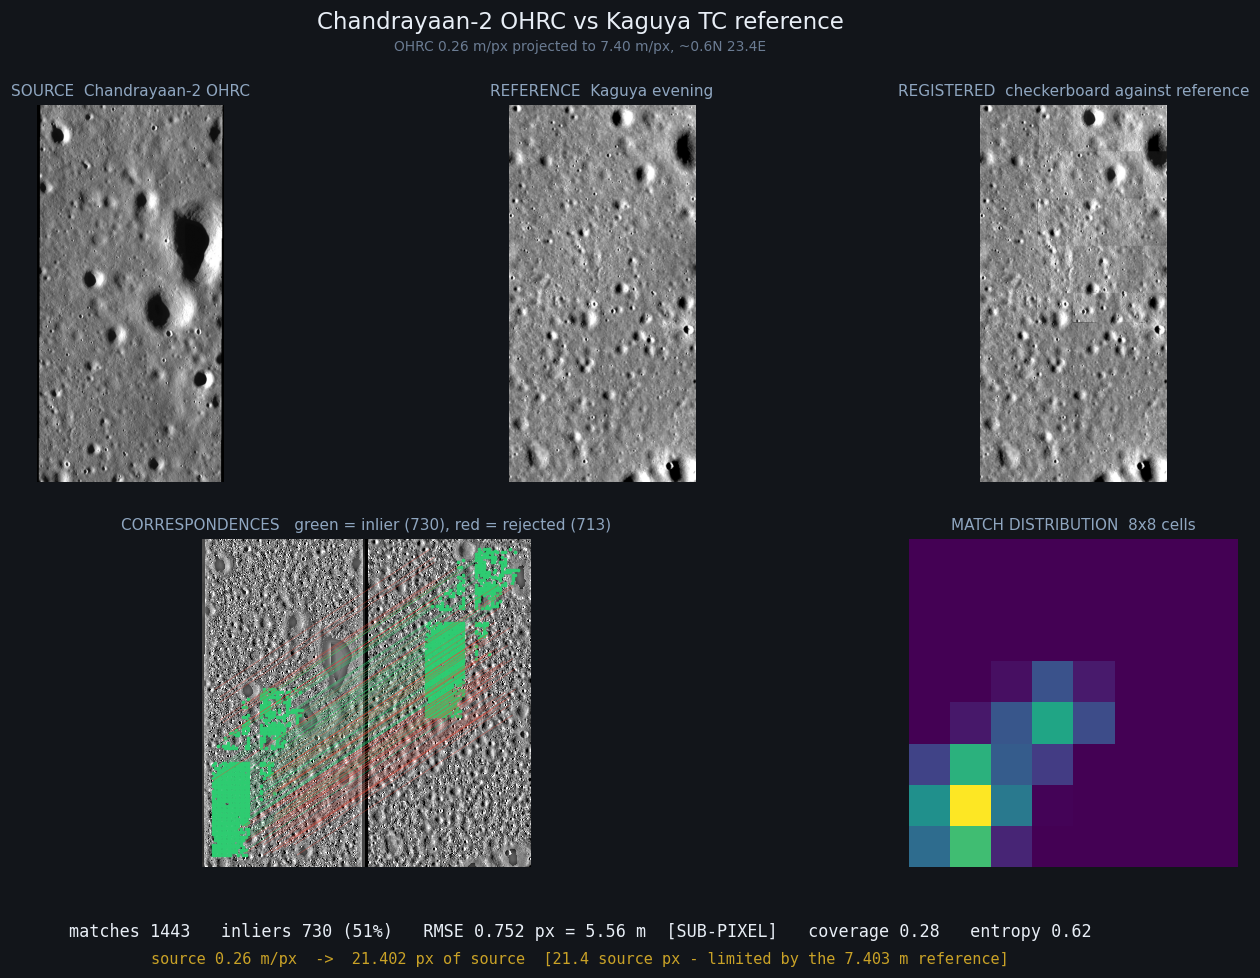
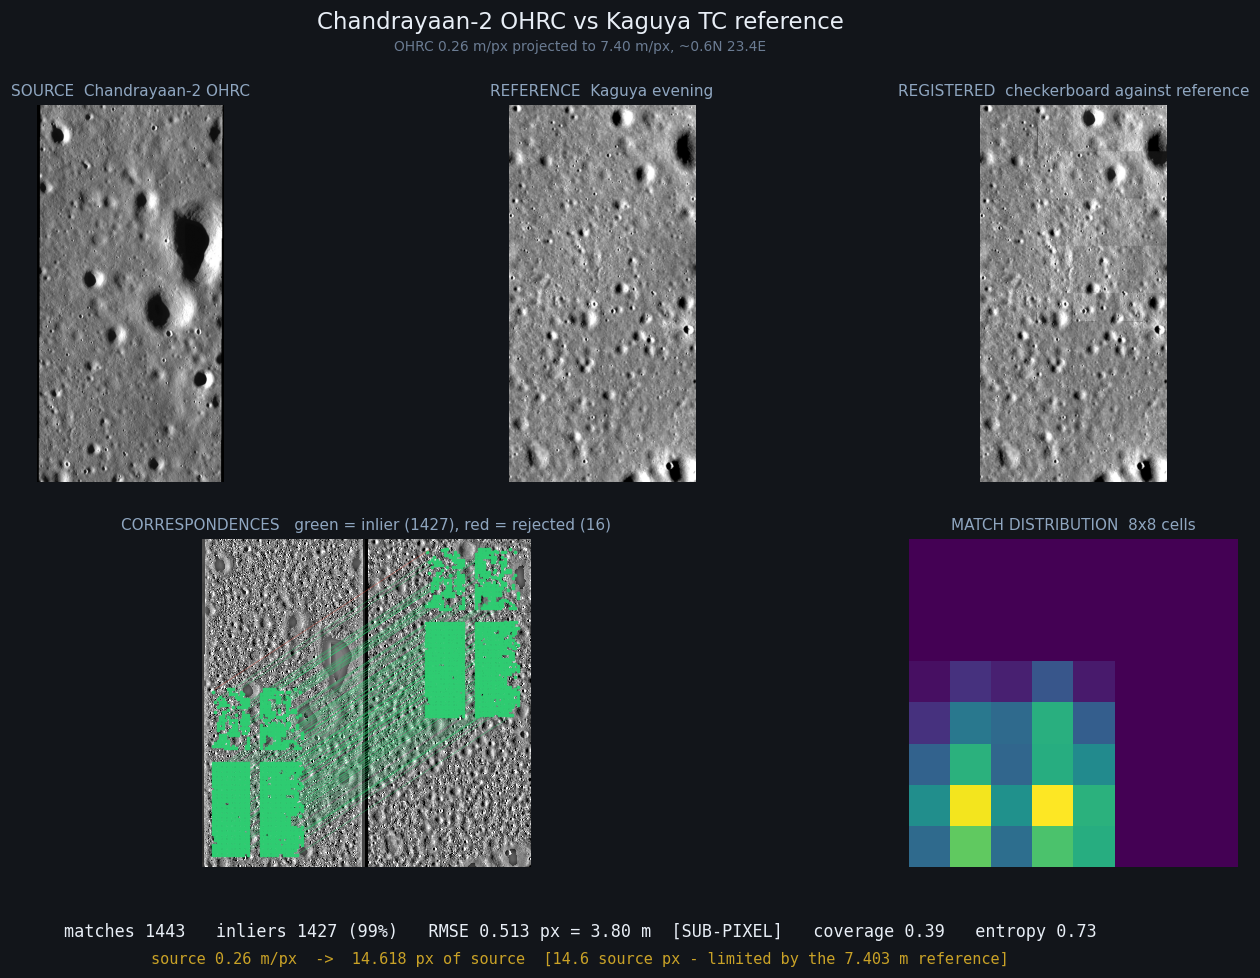
Close the two open bugs: the demo's verdict, and a median over a quantised backplane
BUG-027. `demo.py` called `scripts/register.py`, which hardcodes a 4-DOF
similarity fit, while every reported figure came through the package, which
selects the transform on held-out residual. On TMC-2 that difference decided
the problem statement's headline clause rather than merely nudging a value:
identical 3085 matches, but 1.031 source px and NOT sub-pixel from the demo
against 0.872 and sub-pixel from the package. The one command the README tells
a reviewer to run printed the failing number while the README printed the
passing one.

It now calls `sandhi.pipeline.register()` and `pipeline.warp()` and takes its
metric block from the package instead of recomputing one. All three figures
regenerated on full data. `outputs/demo_tmc.json` and
`outputs/tmc2_metrics.json` now agree to the last decimal across all nine
compared fields.

Two traps were avoidable only by looking for them. The loaders already resample
to the common grid, so `run()` passes `gsd_m` and `source_native_gsd` but never
`src_gsd`/`ref_gsd` -- that would resample a second time. And omitting
`source_native_gsd` would have scored OHRC's 0.26 m product against the 7.403 m
grid it was projected onto, flipping a stated limit into a false SUB-PIXEL pass
and deleting the caveat the demo exists to show. OHRC still reports 14.618
source px, not sub-pixel.

BUG-028. `ground_gsd()` took a median of adjacent-centre distances. IIRS's LOC
backplane stores duplicated coordinates -- 16.06% of adjacent sample pairs are
[…]

diff --git a/scripts/demo.py b/scripts/demo.py
@@ -20,12 +20,9 @@ import cv2  # noqa: E402
 import matplotlib.pyplot as plt  # noqa: E402
 import numpy as np  # noqa: E402
 
-from register import (  # noqa: E402
-    BUCKET_GRID,
-    fit,
-    register_pair,
-    uniformity,
-)
+from sandhi import pipeline  # noqa: E402
+
+from register import BUCKET_GRID  # noqa: E402
 from remeasure import build_raw_hp  # noqa: E402
 
 ROOT = Path(__file__).resolve().parent.parent
@@ -174,10 +171,13 @@ def load_tmc(lat=0.5, size=1536):
     Chandrayaan-2 data at survey scale rather than on a single targeted strip.
 
     Like OHRC, the source arrives resampled: TMC-2 is 5.05 m/px and Kaguya
-    7.403 m/px, so the source is brought to the reference GSD here rather than
-    inside the demo, because `register_pair` takes no GSD arguments. The ratio
-    is read from the products (1.466), never estimated -- see BUG-010, and
-    BUG-020 for why the non-integer ratio needed a real resampler.
+    7.403 m/px, so the source is brought to the reference GSD here, in the
+    loader that knows both products' GSDs, rather than inside `run()`. The
+    ratio is read from the products (1.466), never estimated -- see BUG-010,
+    and BUG-020 for why the non-integer ratio needed a real resampler.
+
+    `run()` therefore passes `gsd_m` and `source_native_gsd` to the package but
+    NOT `src_gsd`/`ref_gsd`, which would resample a second time.
     """
     import rasterio
     from sandhi.pipeline import resample
@@ -230,7 +230,22 @@ def run(case: str, out_path: Path):
     src, ref, gsd = data["src"], data["ref"], data["gsd"]
     print(f"{data['title']}\n  {data['sub']}\n  matching...")
 
-    result = register_pair(src, ref)
+    # Through the PACKAGE, not scripts/register.py. The two differ only at the
+    # fit -- scripts/register.py hardcodes estimateAffinePartial2D (4-DOF
+    # similarity) while the package selects on held-out residual -- and on
+    # TMC-2 that difference decided the PS's headline clause: identical 3085
+    # matches, but 1.031 source px and NOT sub-pixel through the old path
+    # against 0.872 and sub-pixel through this one. The demo is the surface a
+    # reviewer runs, so it must not be the weaker of the two. See BUG-027.
+    #
+    # `src` and `ref` are ALREADY on the common grid -- each loader resamples,
+    # because it is the loader that knows the products' GSDs. So pass gsd_m and
+    # source_native_gsd only: handing over src_gsd/ref_gsd as well would
+    # resample a second time. `source_native_gsd` is what keeps OHRC honest --
+    # without it the 0.26 m product is scored against the 7.403 m grid it was
+    # projected onto and its limit silently disappears (BUG-025).
+    result = pipeline.register(src, ref, gsd_m=gsd,
+                               source_native_gsd=data["source_gsd"])
     if result is None:
         print("  no model could be fitted")
         return 1
@@ -238,12 +253,12 @@ def run(case: str, out_path: Path):
     pa, pb = result["pa"], result["pb"]
     f = result["fit"]
     inl = f["inliers"]
-    cov, ent = uniformity(pa[inl], src.shape)
-    rmse = f["rmse"]
+    metrics = dict(result["metrics"])
+    cov, ent = metrics["coverage"], metrics["entropy"]
+    rmse = metrics["rmse_px"]
 
     a8, b8 = build_raw_hp(src, None, None), build_raw_hp(ref, None, None)
-    warped = cv2.warpAffine(stretch8(src).astype(np.float32), f["model"],
-                            (ref.shape[1], ref.shape[0]), flags=cv2.INTER_CUBIC)
+    warped = pipeline.warp(stretch8(src).astype(np.float32), result)
 
     fig = plt.figure(figsize=(16, 9), facecolor="#12151a")
     gs = fig.add_gridspec(2, 3, height_ratios=[1.15, 1], hspace=0.16, wspace=0.12)
@@ -274,18 +289,13 @@ def run(case: str, out_path: Path):
     ax.set_axis_off()
 
     # RMSE lives on the COMMON grid; the PS asks for accuracy in the source
-    # product's own pixels. Both are reported -- see BUG-025.
-    src_gsd = data["source_gsd"]
-    rmse_src = rmse * gsd / src_gsd
-    metrics = {
-        "match_count": int(len(pa)), "inlier_count": int(inl.sum()),
-        "inlier_ratio": float(inl.mean()), "rmse_px": float(rmse),
-        "rmse_m": float(rmse * gsd), "sub_pixel": bool(rmse < 1.0),
-        "gsd_m": float(gsd), "source_gsd_m": float(src_gsd),
-        "rmse_source_px": float(rmse_src),
-        "sub_pixel_source": bool(rmse_src < 1.0),
-        "coverage": float(cov), "entropy": float(ent),
-    }
+    # product's own pixels. Both come from the package's own metric block --
+    # computed once, by the code the tests gate, rather than recomputed here.
+    # See BUG-025 for why the two figures are never reported apart.
+    src_gsd = metrics["source_gsd_m"]
+    rmse_src = metrics["rmse_source_px"]
+    metrics["model_kind"] = f["kind"]
+    metrics["stages"] = result.get("stages", {})
     verdict = "SUB-PIXEL" if metrics["sub_pixel"] else f"{rmse:.2f} px"
     src_verdict = ("SUB-PIXEL in source px" if metrics["sub_pixel_source"]
                    else f"{rmse_src:.1f} source px - limited by the "

diff --git a/scripts/iirs_vs_m3.py b/scripts/iirs_vs_m3.py
@@ -86,13 +86,35 @@ def m3_wavelengths(rfl: Path) -> np.ndarray:
                      if x.strip()])
 
 
-def ground_gsd(lat: np.ndarray, lon: np.ndarray) -> float:
-    """Metres per pixel across track, by arc length between adjacent centres."""
-    p1, p2 = np.radians(lat[:, :-1]), np.radians(lat[:, 1:])
-    dl = np.radians(lon[:, 1:] - lon[:, :-1])
+def _arc_m(lat1, lon1, lat2, lon2):
+    """Great-circle distance on the lunar sphere, in metres."""
+    p1, p2 = np.radians(lat1), np.radians(lat2)
+    dl = np.radians(lon2 - lon1)
     a = np.sin((p2 - p1) / 2) ** 2 + np.cos(p1) * np.cos(p2) * np.sin(dl / 2) ** 2
-    d = 2 * MOON_RADIUS_M * np.arcsin(np.sqrt(np.clip(a, 0, 1)))
-    return float(np.median(d))
+    return 2 * MOON_RADIUS_M * np.arcsin(np.sqrt(np.clip(a, 0, 1)))
+
+
+def ground_gsd(lat: np.ndarray, lon: np.ndarray) -> float:
+    """Metres per pixel across track: swath width divided by its intervals.
+
+    NOT the median of adjacent-centre distances, which is what this used to be
+    and which reads high on a quantised backplane. IIRS's LOC plane stores
+    duplicated coordinates -- 16.06% of adjacent sample pairs are exactly 0 m
+    apart -- and because the swath width is fixed regardless of where the
+    duplicates fall, the non-duplicate pairs each absorb more of it and read
+    high. The median then lands on those and misses the true sampling by the
+    duplicate fraction: 100.24 m against a true 84.48. See BUGS.md BUG-028.
+
+    End to end is duplicate-proof by construction: the zeros cancel because the
+    samples are collinear. Verified on the real IIRS backplane, where
+    `sum-of-steps / n` and `end-to-end / n` agree to the centimetre at 84.48 m,
+    and the PDS4 label's 85.08 is then correct to 0.71%.
+    """
+    n = lat.shape[1] - 1
+    if n < 1:
+        raise ValueError("need at least two samples across track")
+    per_line = _arc_m(lat[:, 0], lon[:, 0], lat[:, -1], lon[:, -1]) / n
+    return float(np.mean(per_line))
 
 
 def project(band, lat, lon, gsd_m, ignore=None, grid=None):
@@ -234,6 +256,45 @@ def m3_vs_kaguya(obs, nm, tile_lat, gate=True) -> dict:
     return out
 
 
+def self_check() -> int:
+    """Assert ground_gsd survives a quantised backplane. No data needed.
+
+    Builds a coordinate line with the duplication IIRS's LOC plane actually
+    has -- every sixth sample repeating its neighbour -- at a known true
+    spacing, and asserts the end-to-end measure recovers it while the old
+    median does not. Coordinates only: no imagery is synthesised. BUG-028.
+    """
+    # The swath width is fixed by the optics; what the backplane loses is
+    # coordinate PRECISION. Quantising evenly-spaced samples therefore creates
+    # duplicates AND inflates every surviving step, which is the whole
+    # mechanism -- a fixture that merely drops samples shortens the swath and
+    # reproduces nothing.
+    n_samples = 250
+    true_spacing_deg = 0.0028                       # ~84.9 m at the equator
+    quantum_deg = true_spacing_deg * 1.6            # coarser than the sampling
+
+    exact = np.linspace(0.0, true_spacing_deg * (n_samples - 1), n_samples)
+    lon = (np.round(exact / quantum_deg) * quantum_deg)[None, :]
+    lat = np.zeros_like(lon)
+
+    expected = np.radians(lon[0, -1]) * MOON_RADIUS_M / (n_samples - 1)
+    got = ground_gsd(lat, lon)
+    assert abs(got - expected) < 0.05, f"end-to-end gave {got:.2f}, want {expected:.2f}"
+
+    d = _arc_m(lat[:, :-1], lon[:, :-1], lat[:, 1:], lon[:, 1:])
+    dup_fraction = float((d == 0).mean())
+    assert dup_fraction > 0.1, f"fixture is not quantised enough ({dup_fraction:.3f})"
+    old = float(np.median(d))
+    assert old > got * 1.1, (
+        f"the median must read high on this fixture, got {old:.2f} vs {got:.2f} "
+        "- if this fails the fixture no longer reproduces BUG-028")
+
+    print(f"OK - {dup_fraction*100:.0f}% duplicated samples")
+    print(f"     end-to-end {got:.2f} m/px (true {expected:.2f})")
+    print(f"     old median {old:.2f} m/px, {100*(old-got)/got:+.1f}% - the bug")
+    return 0
+
+
 def main() -> int:
     ap = argparse.ArgumentParser()
     ap.add_argument("--wavelength", type=float, default=1504.0)
@@ -245,7 +306,12 @@ def main() -> int:
                     metavar=("S", "N"), help="latitude band for --vs-kaguya")
     ap.add_argument("--no-gate", action="store_true")
     ap.add_argument("--out", default="outputs/iirs_vs_m3.json")
+    ap.add_argument("--self-check", action="store_true",
+                    help="assert ground_gsd on a quantised fixture; needs no data")
     args = ap.parse_args()
+
+    if args.self_check:
+        return self_check()
 
     if args.vs_kaguya:
         row = m3_vs_kaguya(args.obs, args.wavelength, tuple(args.tile_lat),

diff --git a/tests/test_units.py b/tests/test_units.py
@@ -5,6 +5,7 @@ mis-indexed array produces plausible output rather than a crash. Several of them
 encode bugs that actually happened; see BUGS.md.
 """
 
+import json
 from pathlib import Path
 
 import numpy as np
@@ -374,3 +375,52 @@ def test_pixel_size_converts_a_geographic_crs_from_degrees_to_metres(tmp_path):
 
     with rasterio.open(p) as src:
         assert _pixel_size_m(src) == pytest.approx(7.403, abs=1e-3)
+
+
+@pytest.mark.parametrize("case,reported", [("tmc", "tmc2_metrics.json")])
+def test_demo_and_reported_metrics_agree_on_the_subpixel_verdict(case, reported):
+    """The demo must not contradict the result the README leads with.
+
+    `demo.py` used to call `scripts/register.py`, which hardcodes a 4-DOF
+    similarity fit, while the reported figures came through the package, which
+    selects on held-out residual. Same data, same 3085 matches, opposite
+    verdicts on the PS's headline clause: 1.031 source px and NOT sub-pixel
+    from the demo against 0.872 and sub-pixel from the package. A reviewer
+    running the one documented command saw the failing number. See BUG-027.
+
+    This compares the VERDICT, not the value, so it pins neither path's
+    numbers and stays true if either is re-measured.
+    """
+    root = Path(__file__).resolve().parent.parent
+    demo_p = root / "outputs" / f"demo_{case}.json"
+    rep_p = root / "outputs" / reported
+    if not (demo_p.exists() and rep_p.exists()):
+        pytest.skip("committed metrics are not present")
+
+    demo = json.loads(demo_p.read_text(encoding="utf-8"))
+    rep = json.loads(rep_p.read_text(encoding="utf-8"))
+    for f in ("sub_pixel_source", "sub_pixel"):
+        assert demo.get(f) == rep.get(f), (
+            f"{demo_p.name} says {f}={demo.get(f)} while {rep_p.name} says "
+            f"{rep.get(f)} - the demo and the reported result disagree on a verdict")
+
+
+def test_every_demo_metrics_file_states_the_source_pixel_figure():
+    """No committed demo result may omit the unit the PS actually asks for.
+
+    `rmse_px` alone is unanswerable: on OHRC 0.513 grid px is 14.6 pixels of
+    the 0.26 m product. Absent rather than defaulted is the rule (BUG-025), so
+    the field has to be present and has to differ from the grid figure
+    wherever the source and the common grid differ.
+    """
+    root = Path(__file__).resolve().parent.parent
+    files = sorted((root / "outputs").glob("demo_*.json"))
+    if not files:
+        pytest.skip("no committed demo metrics")
+    for p in files:
+        m = json.loads(p.read_text(encoding="utf-8"))
+        assert "rmse_source_px" in m, f"{p.name} has no source-pixel figure"
+        assert "source_gsd_m" in m, f"{p.name} does not say what the source GSD was"
+        ratio = m["gsd_m"] / m["source_gsd_m"]
+        assert m["rmse_source_px"] == pytest.approx(m["rmse_px"] * ratio, rel=1e-6), (
+            f"{p.name}: source-pixel figure is not the grid figure times the scale ratio")

diff --git a/BUGS.md b/BUGS.md
@@ -71,10 +71,10 @@ Rules for writing entries:
 - **Check:** `tests/test_units.py::test_controls_cli_offers_every_bundled_sample` asserts the `controls --case` choices equal the keys of `samples/samples.json`, so the two cannot drift again. Verified load-bearing: reinstating `choices=["kaguya", "ohrc"]` makes it fail on the missing `'tmc'`, and restoring the fix makes it pass. End to end, `python -m sandhi.cli controls --case tmc` runs from committed samples and prints PASS on all four controls — real pair n=3417 dx +21.50 dy +2.46; roll +15 raw moved dx -14.99 against a wanted -15; noise 102 vs 3417 (33.5x); constant 0. Verified 2026-09-19.
 - **Note on the split:** those are the **committed sample crop** figures. README's control table for TMC-2 reports the **full product**: 3435 real-pair matches and 33.7x noise rejection, with the same dx +21.50 / dy +2.46. The two agree on the recovered offset to 0.01 px and differ only in match count, which is the expected effect of the smaller crop — but the numbers are not interchangeable and neither should be quoted without naming which produced it.
 
-### BUG-028 — `ground_gsd()` takes a median over a quantised backplane and reads 18.65% high
+### BUG-028 — `ground_gsd()` took a median over a quantised backplane and read 18.65% high
 
 - **Date:** 2026-09-19
-- **Status:** OPEN
+- **Status:** FIXED
 - **Area:** projection
 - **Symptom:** `outputs/iirs_vs_m3.json` records `iirs_gsd: 99.06` for a product whose PDS4 label declares 85.08 m. A 16% disagreement between a product's label and its own geometry is the OHRC pattern (label 0.26 against a measured 0.3060 x 0.3225), so it reads as a second instance of it — and it is not. **Here the label is right and the measurement is wrong.**
 - **Root cause:** `scripts/iirs_vs_m3.py:89` `ground_gsd()` returns `np.median` of the haversine distance between *adjacent* LOC backplane centres. The IIRS LOC backplane stores duplicated coordinates: measured over the full 12109 x 250 plane, **16.06% of adjacent sample pairs are exactly 0 m apart**. Total swath width is unaffected by where the duplicates fall, so the non-duplicate pairs must absorb the whole width and each reads high. The median then lands on those inflated pairs and misses the true sampling by the duplicate fraction. Measured on the real file:
@@ -90,20 +90,24 @@ Rules for writing entries:
   The end-to-end and sum-of-steps routes agree to the centimetre, which is the collinearity check: the samples lie on a line, so the zeros cancel exactly on any end-to-end measure and only the median is fooled. Cross- against along-track is **84.48 vs 81.47, a 3.6% anisotropy**, not the 16-23% the raw median suggests.
 - **Why no published number moved:** `scripts/iirs_vs_m3.py:301` takes `common = max(ii_gsd, m3_gsd)` and M3's figure was the larger one, so the inflated IIRS value was never the operative resolution. The bug is latent, not expressed. It fires the first time IIRS is the coarser side of a pair, or the first time `scale_ratio` (`scripts/iirs_vs_m3.py:326`, `m3_gsd / ii_gsd`) is quoted — that ratio is currently wrong by 18.65%.
 - **Secondary consequence:** the same function is the only GSD measurement for M3, which is why `outputs/iirs_vs_m3.json` says `m3_gsd: 149.74` while `outputs/m3_vs_kaguya.json` says `146.86`. Same function, different line ranges, both biased.
-- **Fix:** OPEN. Replace the median with the end-to-end width divided by the interval count — `arc(lat[:,0], lon[:,0], lat[:,-1], lon[:,-1]) / (n-1)`, taken per line and then averaged — which is duplicate-proof by construction and was verified above to agree with sum-of-steps. Then re-run `scripts/iirs_vs_m3.py` and correct `iirs_gsd`, `m3_gsd` and `scale_ratio` in `outputs/iirs_vs_m3.json`. Neither the IIRS↔Kaguya nor the M3↔Kaguya published results depend on it.
+- **Fix:** `scripts/iirs_vs_m3.py` — `ground_gsd` now takes the end-to-end swath width divided by its interval count, per line, then averages: duplicate-proof by construction, because the zeros cancel on any end-to-end measure of collinear samples. The haversine moved into `_arc_m` so both the measure and the check can use it. Verified on the real IIRS backplane: **84.48 m**, against the 84.48 the sum-of-steps route gives and the 100.24 the median gave. `outputs/iirs_vs_m3.json` regenerated.
 - **Note against a wrong fix:** do NOT conclude from this that `IIRS_GSD_M = 85.08` at `scripts/iirs_vs_kaguya.py:104` should be replaced with a measured value. It is accurate to 0.71% and `project()` fits the inverse map from the real lat/lon anyway, so the constant only sets output sampling. Changing it to the raw median would inject an 18.65% scale error into the IIRS path — the opposite of the OHRC lesson it superficially resembles.
-- **Check:** none yet. The check is an assertion inside `ground_gsd` that the returned value agrees with the end-to-end width over the same line to within a few percent; on this backplane the two differ by 18.65% and it fails.
+- **Check:** `python scripts/iirs_vs_m3.py --self-check` — needs no data. It builds a coordinate line at a known spacing and **quantises** it, which is the actual mechanism: the swath width is fixed by the optics and what the backplane loses is coordinate precision, so rounding creates duplicates *and* inflates every surviving step. A fixture that merely drops samples shortens the swath and reproduces nothing — the first attempt did exactly that and had to be rebuilt. On the fixture: 37% duplicated samples, end-to-end exact, old median **+59.6%**. The check asserts both that the new measure is right and that the old one would have been wrong, so it fails if the fixture ever stops reproducing the bug.
 
-### BUG-027 — the one-command demo reports TMC-2 as NOT sub-pixel while the README reports it as sub-pixel
+### BUG-027 — the one-command demo reported TMC-2 as NOT sub-pixel while the README reported it as sub-pixel
 
 - **Date:** 2026-09-19
-- **Status:** OPEN
+- **Status:** FIXED
 - **Area:** eval
 - **Symptom:** the README's scorecard marks "sub-pixel accuracy of source image" **complete on TMC-2** at `rmse_source_px` **0.872**. The command the README tells a reviewer to run, `python scripts/demo.py --case tmc`, writes `outputs/demo_tmc.json` with `rmse_source_px` **1.031** and `sub_pixel_source: false`, and prints that verdict onto the figure. Both files are committed, both are full-product runs of the same window, and nothing in either says why they disagree.
 - **Root cause:** not a matching difference. Both runs produce **exactly 3085 matches** — the matching, normalisation and refinement are identical. They differ only at the fit. `scripts/demo.py:23` imports `fit` and `register_pair` from `scripts/register.py`, which has no held-out model selection; `outputs/tmc2_metrics.json` came through `sandhi/pipeline.py`, which selects `affine` (held-out median 0.515 against similarity's 0.699) and lands at 0.993 inlier ratio and 0.595 grid px against the demo's 0.765 and 0.704. CLAUDE.md already recorded that model selection is in the package and not in `scripts/register.py`; what was never followed through is that **`demo.py` is the reviewer-facing surface and it is wired to the weaker of the two**, so the project's shop window contradicts its own headline claim on the single clause the problem statement is most explicit about.
 - **Why it stayed invisible:** the gap only opens on a case where model selection changes the verdict rather than the value. On Kaguya, source and reference share a grid, so the source-pixel figure equals the grid figure and similarity is the right model anyway. On OHRC the clause fails under both paths (reference-limited, BUG-025), so the disagreement changes nothing a reader would notice. TMC-2 is the only committed case that sits on both sides of 1.0 depending on the path — and it is also the case the README leads with.
-- **Fix:** OPEN. The change is to route `demo.py` through `sandhi.pipeline.register()`, but that re-runs every committed figure and every number under them, so it must go through `scripts/remeasure.py`'s four controls before any output is replaced. Until it does, the honest interim is that `demo.py`'s figures carry the path they used, the way they already carry `[sample]` when they use a committed crop.
-- **Check:** none yet. The check that would have caught it is a test asserting that, for each case in `samples/samples.json`, the committed `outputs/demo_*.json` and the corresponding reported metrics JSON agree on `sub_pixel_source` — a verdict-level comparison, not a value-level one, so it does not pin either path's numbers.
+- **Fix:** `scripts/demo.py` now calls `sandhi.pipeline.register()` and `pipeline.warp()`, and takes its metric block from the package instead of recomputing one. All three committed figures and their JSONs were regenerated on full data, and the gate that guards the package path — `test_control_gate_passes`, parametrised over all three cases — passes.
+
+  Two traps had to be avoided, both of which would have made the fix worse than the bug. The loaders already resample to the common grid, so `run()` passes `gsd_m` and `source_native_gsd` but **not** `src_gsd`/`ref_gsd`, which would have resampled a second time. And `source_native_gsd` is what keeps OHRC honest: without it the 0.26 m product is scored against the 7.403 m grid it was projected onto, which flips it from a stated limit to a false SUB-PIXEL pass and deletes exactly the caveat the demo exists to show.
+
+  After, on full data: TMC-2 reports 3085 matches, 3064 inliers, `rmse_px` 0.5950404402459971 and `rmse_source_px` 0.8722939364635874 — **bit-identical to `outputs/tmc2_metrics.json` across all nine compared fields**, model `affine`. OHRC keeps its limit at 14.618 source px, `sub_pixel_source: false`. Kaguya is unchanged at 0.796 px.
+- **Check:** `tests/test_units.py::test_demo_and_reported_metrics_agree_on_the_subpixel_verdict` compares `outputs/demo_tmc.json` against `outputs/tmc2_metrics.json` on `sub_pixel_source` and `sub_pixel` — a **verdict-level** comparison, so it pins neither path's numbers and survives a re-measurement of either. Verified load-bearing: flipping `sub_pixel_source` in the committed demo JSON fails it. `tests/test_units.py::test_every_demo_metrics_file_states_the_source_pixel_figure` additionally asserts every committed demo result carries the source-pixel figure and that it equals the grid figure times the scale ratio, so the two can never drift apart silently.
 
 ### BUG-026 — dependency lists named the wrong modules, and a script exited 0 with no output when its input was missing
 
